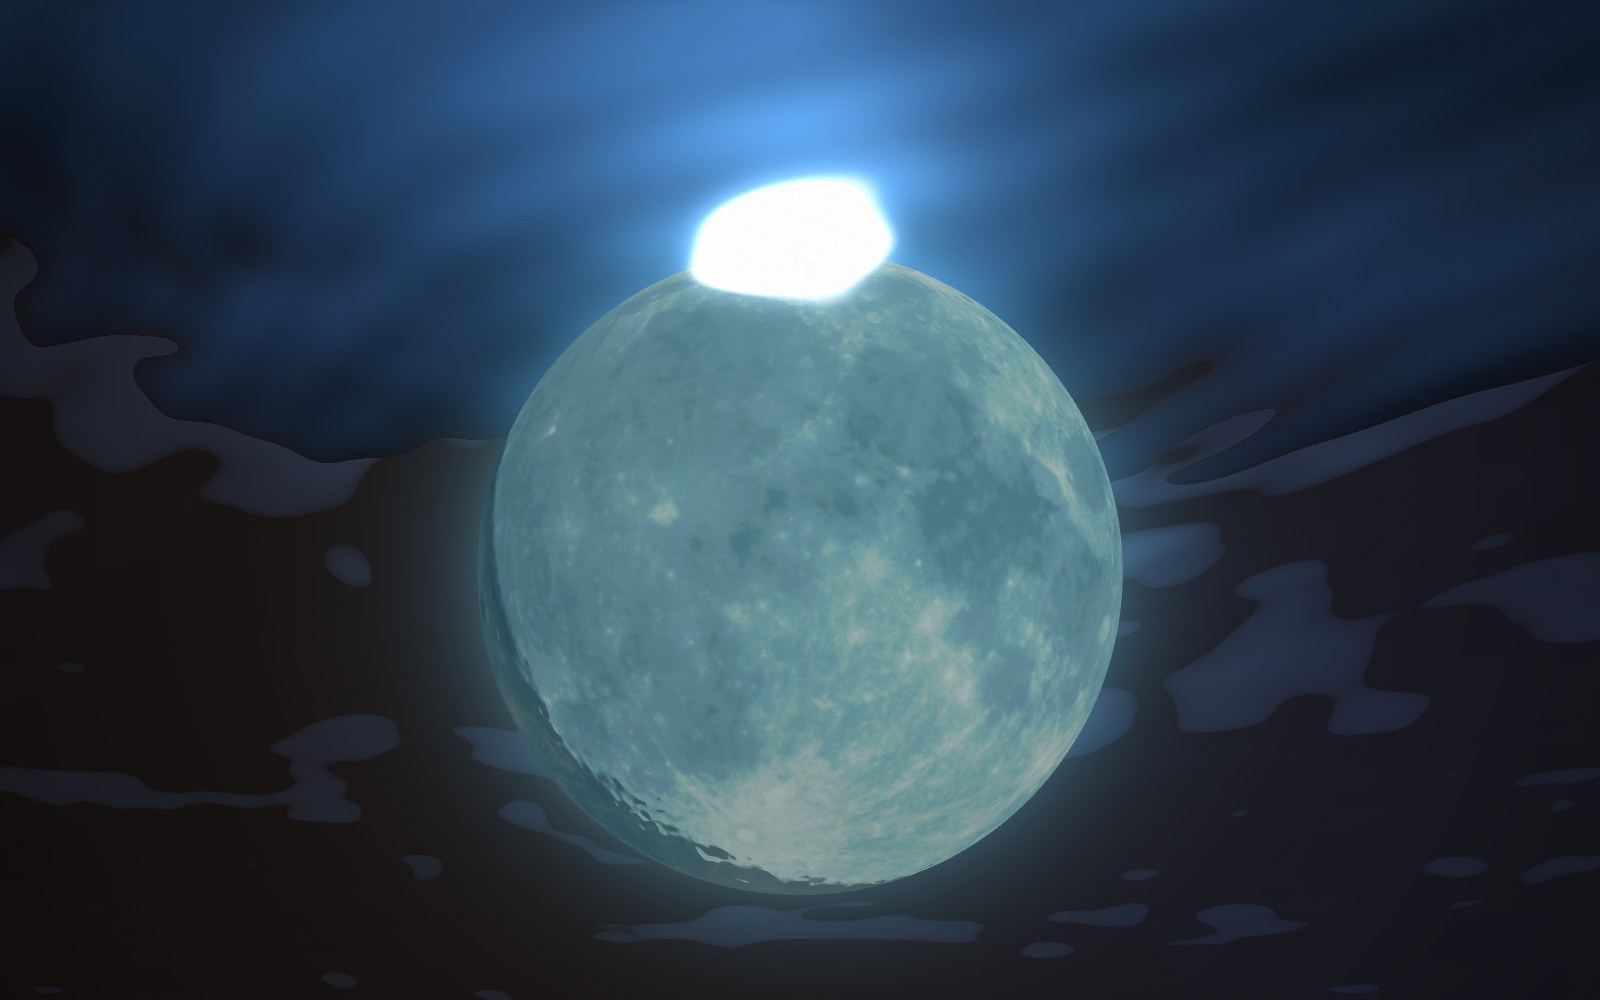
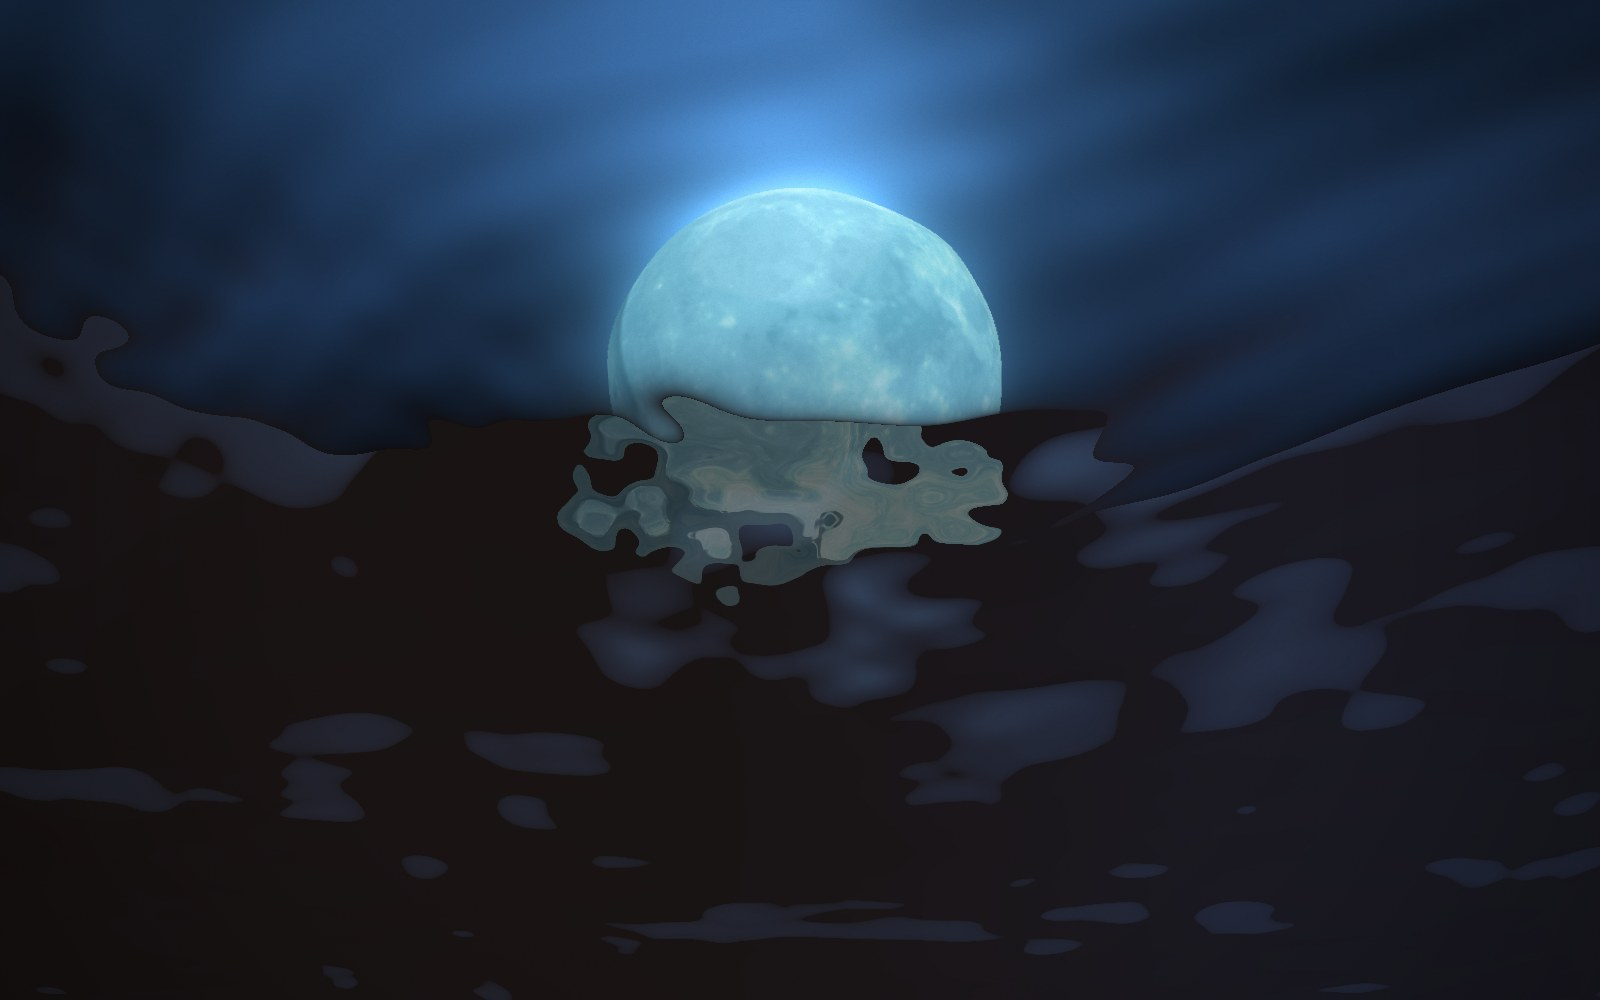
Leak the moon itself through the dark water when it's behind the surface

diff --git a/public/games/flymetothemoon/index.html b/public/games/flymetothemoon/index.html
@@ -229,6 +229,7 @@
       uniform vec2 uMoonC;
       uniform sampler2D uMoonTex;
       vec3 gN = vec3(0.0, 1.0, 0.0); float gT = 0.0;   // surface normal and transmission at the last lookUp
+      vec2 gLeakOff = vec2(0.0); float gLeakW = 0.0;   // where (and how much) the moon leaks into the dark water
       uniform vec3 uDeepL, uDeepR, uUpLight, uSkyLow, uSkyHigh, uGlowA, uGlowB, uHalo, uImage, uBloomTint;
       uniform sampler2D uSim; uniform float uTime, uSwell, uChop, uWarp, uChopMode, uLimit, uScale; uniform vec2 uMoon; uniform float uMoonR;
       const float FS = ${CAM.FS}, ALPHA = ${CAM.ALPHA}, DEPTH = ${CAM.DEPTH.toFixed(1)}, TILE = ${CAM.TILE.toFixed(1)};
@@ -379,10 +380,17 @@
         sky += uImage * smoothstep(MOON_COS - 0.0012, MOON_COS + 0.0012, c);
         return sky * T;
       }
+      // how badly the dark water scrambles what leaks through it: amplified slopes plus two
+      // fast jitters, as a screen offset
+      vec2 leakScramble(vec2 xz, vec2 slope){
+        vec2 j1 = vec2(vnoise(xz*3.0 + vec2(uTime*0.4, 0.0)), vnoise(xz*3.0 + vec2(5.2, -uTime*0.35))) - 0.5;
+        vec2 j2 = vec2(vnoise(xz*9.0 + vec2(-uTime*0.7, 1.3)), vnoise(xz*9.0 + vec2(2.7, uTime*0.6))) - 0.5;
+        return (slope*6.0 + j1*0.9 + j2*0.6) * 0.12;
+      }
       vec4 lookUp(vec2 s){
         float u = 0.506 + s.x*0.2375;                      // horizontal position across the view, for the palette
         vec3 d = viewRay(s);
-        gT = 0.0;
+        gT = 0.0; gLeakW = 0.0;
         if (d.y < 0.03) {                                  // looking sideways: just water...
           vec3 w = underwater(d, u);
           if (uLeak > 0.001) {
@@ -391,6 +399,7 @@
             vec2 xzF = d.xz*(DEPTH/0.03) + vec2(0.0, below*40.0);
             vec3 slF = surfaceSlope(xzF, 8.0);
             w += leakLight(normalize(vec3(d.x, 0.06, d.z)), xzF, slF.xy) * 0.4*uLeak * exp(-below*7.0);
+            gLeakOff = leakScramble(xzF, slF.xy) * 1.4; gLeakW = 0.45*uLeak * exp(-below*6.0);
           }
           return vec4(w, 0.0);
         }
@@ -401,7 +410,10 @@
         gN = N;
         vec3 r = refract(d, -N, 1.333);
         vec3 deepR = underwater(reflect(d, -N), u);         // the surface's mirror of the water below
-        if (dot(r, r) < 1e-6) return vec4(deepR + leakLight(d, xz, sl.xy)*0.45*uLeak, 0.0);   // total internal reflection, plus the leak
+        if (dot(r, r) < 1e-6) {                            // total internal reflection, plus the leak
+          gLeakOff = leakScramble(xz, sl.xy); gLeakW = 0.6*uLeak;
+          return vec4(deepR + leakLight(d, xz, sl.xy)*0.45*uLeak, 0.0);
+        }
         float cosT = max(dot(r, N), 0.0);
         float F = 0.0204 + 0.9796*pow(1.0 - cosT, 5.0);    // Fresnel (Schlick, from the air side)
         float T = 1.0 - F;
@@ -434,6 +446,12 @@
         if (vis > 0.001) {
           vec4 m = texture2D(uMoonTex, gl_FragCoord.xy/uRes + vec2(gN.x, gN.z)*0.08);
           col = col*(1.0 - m.a*vis) + m.rgb*vis;
+        }
+        // where the water is dark, the moon still leaks through, faint and scrambled
+        float lw = uAbove * gLeakW;
+        if (lw > 0.001) {
+          vec4 m2 = texture2D(uMoonTex, gl_FragCoord.xy/uRes + gLeakOff);
+          col = col*(1.0 - m2.a*lw) + m2.rgb*lw;
         }
         // halo around wherever the moon is: sharp edge, then a short exponential fall-off
         vec2 sm = (gl_FragCoord.xy - uMoonC) / uMoonRC;

diff --git a/README.md b/README.md
@@ -30,9 +30,9 @@ The dark water below and the surface's mirror of it share one colour field, warm
 
 ![Broad waves alone, rolling across the surface](docs/screenshots/04-broad-waves.jpg)
 
-Some light also leaks into the dark water, badly scrambled. There, each ray is bent again through an exaggerated version of the surface (its real slopes amplified about six times, plus a fast jitter), so the few rays that still get out pick up warped fragments of sky, moon glow and moon. They drift through the dark water below the window's edge and fade out with depth. The **Leak** control sets how much gets through.
+Some light also leaks into the dark water, badly scrambled. There, each ray is bent again through an exaggerated version of the surface (its real slopes amplified about six times, plus a fast jitter), so the few rays that still get out pick up warped fragments of sky, moon glow and moon. They drift through the dark water below the window's edge and fade out with depth. With the moon **Behind** the surface, the same happens to the moon itself: whatever part of it sinks below the waterline still comes through as a faint, shattered ghost, looked up at a badly scrambled position, instead of vanishing. Lower it with **Height** to see more of it. The **Leak** control sets how much gets through.
 
-![Light leaking into the dark water, Leak at its maximum](docs/screenshots/21-leak.jpg)
+![The moon behind the water, lowered, leaking through the dark water as a shattered ghost](docs/screenshots/21-leak.jpg)
 
 With the warp turned off, the ripples settle into a more even, cell-like pattern:
 
@@ -114,7 +114,7 @@ The controls sit in the lower right: the sky presets along the top, then plain w
 | Speed | How fast all the water moves (also slows the simulation) | 0.1 – 1.5 | 0.6 |
 | Height | Raises or lowers the moon, in the water or in the sky | −1 – 1 | 0 |
 | Halo | Strength of the glow around the big moon (on top of what the sky sets) | 0 – 2 | 1 |
-| Leak | How much scrambled light leaks into the dark water | 0 – 1 | 0.5 |
+| Leak | How much scrambled light, and with the moon Behind, the moon itself, leaks into the dark water | 0 – 1 | 0.5 |
 | Glow | Strength of the bloom | 0 – 2 | 0.6 |
 | In front / Behind | Moon in the water, or up in the sky behind the surface | | In front |
 | Bloom on/off | Turns the bloom off entirely | | on |
